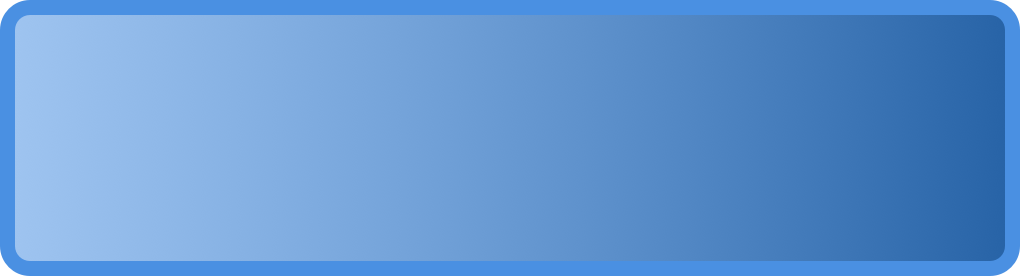
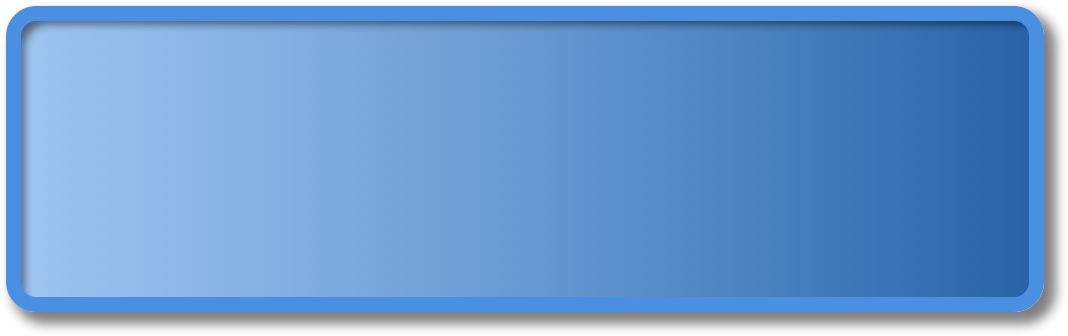
1.直接使用有陰影的圖，不再使用程式碼算浪費效能 2. 修正 Top Bar title 的字體陰影

Changed region(s): [[0.0, 0.0, 1.0, 1.0]]

diff --git a/GW2BroH/GW2BroH/ViewController/UIComponent/TableViewCell_SeparateCell.m b/GW2BroH/GW2BroH/ViewController/UIComponent/TableViewCell_SeparateCell.m
@@ -39,10 +39,10 @@
         [self setBackgroundColor:[UIColor clearColor]];
         [self setSelectionStyle:(UITableViewCellSelectionStyleNone)];
         
-        _cellBoundImageView = [[UIImageView alloc] initWithFrame:CGRectMake(10,
+        _cellBoundImageView = [[UIImageView alloc] initWithFrame:CGRectMake(8,
                                                                             10,
-                                                                            [UIScreen mainScreen].bounds.size.width - 20,
-                                                                            D_CellHight_Normal - 20)];
+                                                                            [UIScreen mainScreen].bounds.size.width - 10,
+                                                                            D_CellHight_Normal - 10)];
         
         // 初始話基礎底圖、以及讓底圖可以擴大
         CGFloat top = 25; // 頂端高度
@@ -51,7 +51,6 @@
         CGFloat right = 10; // 右部寬度
         UIEdgeInsets insets = UIEdgeInsetsMake(top, left, bottom, right);
         _redCellBoundImage = [GW2BroH_Tools getImageWithString:@"ViewControllerWorldBoss" withImageName:@"CellBackgroundImage_Red"];
-        // 指定为拉伸模式，伸缩后重新赋值
         _redCellBoundImage = [_redCellBoundImage resizableImageWithCapInsets:insets resizingMode:UIImageResizingModeStretch];
         _blueCellBoundImage = [GW2BroH_Tools getImageWithString:@"ViewControllerWorldBoss" withImageName:@"CellBackgroundImage_Blue"];
         _blueCellBoundImage = [_blueCellBoundImage resizableImageWithCapInsets:insets resizingMode:UIImageResizingModeStretch];
@@ -106,16 +105,16 @@
             __weak __typeof(self) weakSelf = self;
             [UIView animateWithDuration:0.3f animations:^{
                 __strong __typeof(weakSelf) strongSelf = weakSelf;
-                strongSelf.cellBoundImageView.frame = CGRectMake(10,
+                strongSelf.cellBoundImageView.frame = CGRectMake(8,
                                                                  10,
-                                                                 [UIScreen mainScreen].bounds.size.width - 20,
-                                                                 D_CellHight_Selected - 20);
+                                                                 [UIScreen mainScreen].bounds.size.width - 10,
+                                                                 D_CellHight_Selected - 10);
             }];
         }
         else{
-            self.cellBoundImageView.frame = CGRectMake(10,
-                                                       10,[UIScreen mainScreen].bounds.size.width - 20,
-                                                       D_CellHight_Selected - 20);
+            self.cellBoundImageView.frame = CGRectMake(8,
+                                                       10,[UIScreen mainScreen].bounds.size.width - 10,
+                                                       D_CellHight_Selected - 10);
         }
     }
     else{
@@ -123,17 +122,17 @@
             __weak __typeof(self) weakSelf = self;
             [UIView animateWithDuration:0.3f animations:^{
                 __strong __typeof(weakSelf) strongSelf = weakSelf;
-                strongSelf.cellBoundImageView.frame = CGRectMake(10,
+                strongSelf.cellBoundImageView.frame = CGRectMake(8,
                                                                  10,
-                                                                 [UIScreen mainScreen].bounds.size.width - 20,
-                                                                 D_CellHight_Normal - 20);
+                                                                 [UIScreen mainScreen].bounds.size.width - 10,
+                                                                 D_CellHight_Normal - 10);
             }];
         }
         else{
-            self.cellBoundImageView.frame = CGRectMake(10,
+            self.cellBoundImageView.frame = CGRectMake(8,
                                                        10,
-                                                       [UIScreen mainScreen].bounds.size.width - 20,
-                                                       D_CellHight_Normal - 20);
+                                                       [UIScreen mainScreen].bounds.size.width - 10,
+                                                       D_CellHight_Normal - 10);
         }
     }
     
@@ -184,12 +183,6 @@
 -(void)isFirstCell{
     // TODO: 跟其他 Cell 有差別（外框顏色變紅色、倒數時間變大）
     [_cellBoundImageView setImage:_redCellBoundImage];
-    // 加入陰影
-    _cellBoundImageView.layer.shadowColor = [UIColor blackColor].CGColor;
-    _cellBoundImageView.layer.shadowOffset = CGSizeMake(0, 3);
-    _cellBoundImageView.layer.shadowOpacity = 3;
-    _cellBoundImageView.layer.shadowRadius = 3.0;
-    _cellBoundImageView.clipsToBounds = NO;
 }
 
 @end

diff --git a/GW2BroH/GW2BroH/Tools/Constants.h b/GW2BroH/GW2BroH/Tools/Constants.h
@@ -19,7 +19,7 @@ typedef enum : NSInteger{
 }EnumTabBarIndex;
 
 #define VC_START_MENU_BACKGROUND_COLOR [UIColor colorWithRed:0.36 green:0.47 blue:0.66 alpha:1.0f]
-#define VC_OTHERS_BACKGROUND_COLOR [UIColor colorWithRed:0.84f green:0.92f blue:1.0f alpha:1.0f]
+#define VC_OTHERS_BACKGROUND_COLOR [UIColor colorWithRed:0.91f green:0.95f blue:1.0f alpha:1.0f]
 #define VC_NAVIGATION_BAR_COLOR [UIColor colorWithRed:0.1f green:0.35f blue:0.63f alpha:1.0f]
 
 #define FRAME_SIZE(TEXT,FONT) [(TEXT) boundingRectWithSize: CGSizeMake( CGFLOAT_MAX, CGFLOAT_MAX) options: NSStringDrawingUsesLineFragmentOrigin attributes:@{NSFontAttributeName: FONT} context: nil].size

diff --git a/GW2BroH/GW2BroH/ViewController/UINavigationController+Title.m b/GW2BroH/GW2BroH/ViewController/UINavigationController+Title.m
@@ -18,6 +18,11 @@
     [titleLabel setText:tempTitle];
     [titleLabel setTextAlignment:(NSTextAlignmentCenter)];
     [titleLabel setFont:[UIFont boldSystemFontOfSize:26.0f]];
+    titleLabel.layer.shadowColor = [UIColor blackColor].CGColor;
+    titleLabel.layer.shadowOffset = CGSizeMake(0, 2);
+    titleLabel.layer.shadowOpacity = 1;
+    titleLabel.layer.shadowRadius = 2.0;
+    titleLabel.clipsToBounds = NO;
     [self.view addSubview:titleLabel];
 }
 

diff --git a/GW2BroH/GW2BroH/ViewController/UIComponent/TableViewCell_SeparateCell+WorldBossCell.m b/GW2BroH/GW2BroH/ViewController/UIComponent/TableViewCell_SeparateCell+WorldBossCell.m
@@ -43,7 +43,7 @@
     else{
         [self.imageView_First setHidden:NO];
     }
-    [self.imageView_First setFrame:CGRectMake(20, 20, 146 , 73)];
+    [self.imageView_First setFrame:CGRectMake(20, 22, 146 , 73)];
     [self.imageView_First setImage:[GW2BroH_Tools getImageWithString:@"ViewControllerWorldBoss" withImageName:tempImageName]];
     
     [self addSubview:self.imageView_First];
